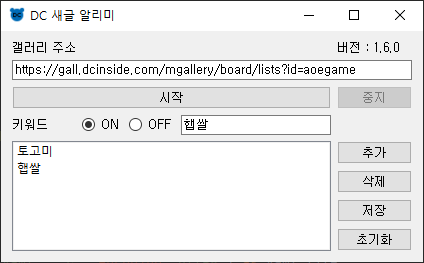
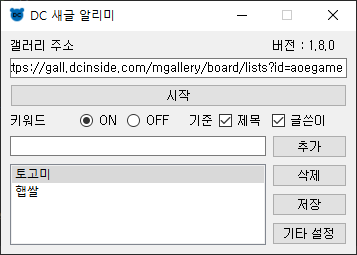
README 업데이트

diff --git a/main.py b/main.py
@@ -345,7 +345,7 @@ class Notification(QThread):
                     self.logger.debug('키워드 비활성화 상태')
                     self.notification_action(title_f, author, post_id)
                     self.recent = post_id
-                # 키워드=on 일 경우, 체크된 기준(제목 혹은 글쓴이)에 키워드가 포함 되어있다면 토스트 메시지로 표시
+                # 키워드=on 일 경우, 체크된 기준(제목 혹은 작성자)에 키워드가 포함 되어있다면 토스트 메시지로 표시
                 else:
                     for keyword in self.keyword_list:
                         if (ex.k_titleCB.isChecked() and keyword in title_f) or (ex.k_authorCB.isChecked() and keyword in author):
@@ -413,10 +413,10 @@ class MyApp(QWidget):
         self.k_onRB.clicked.connect(self.updateOptionState)
         self.k_offRB.clicked.connect(self.updateOptionState)
 
-        # 키워드 제목/글쓴이 선택 버튼
+        # 키워드 제목/작성자 선택 버튼
         self.isTitleLb = QLabel('기준')
         self.k_titleCB = QCheckBox('제목', self)
-        self.k_authorCB = QCheckBox('글쓴이', self)
+        self.k_authorCB = QCheckBox('작성자', self)
 
         # 추가할 키워드 적는 칸
         self.newItemLE = QLineEdit('', self)
